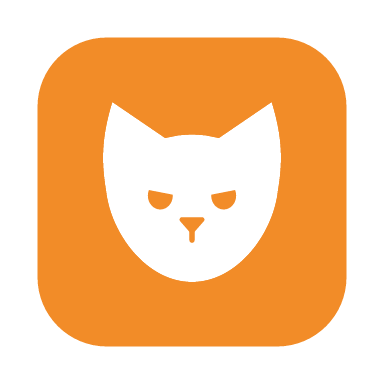
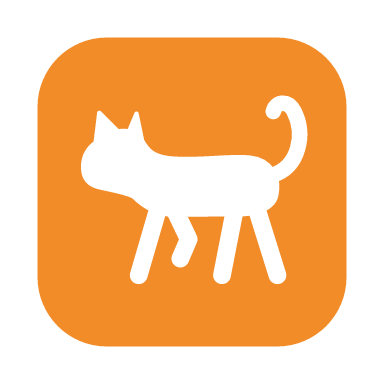
Оновити іконку: силует котика, що йде
Мордочку замінено суцільним силуетом котика в профілі, що йде вліво
широким кроком, з хвостом гачком угору.

Changed region(s): [[0.2812, 0.5, 0.75, 0.75], [0.1875, 0.25, 0.8125, 0.5312]]

diff --git a/.scratch/seocat-v1/issues/08-toolbar-icon.md b/.scratch/seocat-v1/issues/08-toolbar-icon.md
@@ -21,10 +21,9 @@ Resolved by grilling on 2026-11-03. No new glossary terms; no ADR (cheap to chan
 - **v1 ships icons.** The packager's "manifest.json is missing icons" warning goes away.
 - **Two SVG sources in `assets/icons/`** (outside `public/`, so they never reach `dist/`), both on a 1024×1024 canvas:
   - `toolbar.svg`: the bare glyph, solid `#F28C28`.
-  - `app.svg`: the same glyph in white on a `#F28C28` rounded square, 824×824 at offset 100, corner radius 185, no shadow (macOS icon grid).
-- **Motif:** a filled silhouette of a cat's head with two pointed ears. Originally no face at all; revised on 2026-11-04 to add one, cut out of the head (negative space, so the palette stays two colours and the toolbar icon stays single-colour on light and dark toolbars):
-  - `app.svg`: vertical oval eyes, a rounded downward triangle nose and an "ω" mouth.
-  - `toolbar.svg`: simplified for 16px — larger eyes and nose, no mouth (a mouth at 16px is a 1px smear).
+  - `app.svg`: the glyph in white on a `#F28C28` rounded square, 824×824 at offset 100, corner radius 185, no shadow (macOS icon grid).
+- **Motif:** revised on 2026-11-05. It is now a solid side-view silhouette of a whole cat walking left, taking a wide stride: the supporting front leg reaches forward, the other front leg is lifted behind it, the hind legs are scissored, and the tail rises in a hook. There are no eyes or other inner details, since they would not read at 16–32px. This replaces the earlier head-with-face motif (head silhouette with cut-out eyes and nose, squinting eyes since 2026-11-04).
+  - Both SVGs draw the same shapes. The toolbar glyph fills the canvas width, with legs and tail stroked thicker (84/72) so they don't vanish at 16px. In `app.svg` the glyph is scaled to 0.74 and drawn thinner (64/56).
   - Still no whiskers: thin lines vanish at small sizes.
 - **Toolbar icon is in color, not a template image.** A color image renders predictably on light and dark toolbars whatever Safari does with monochrome icons, so template rendering was deliberately not verified (research found no primary source on Safari's tinting; Safari needs PNG, not SVG, for `default_icon`).
 - **Sizes:**
